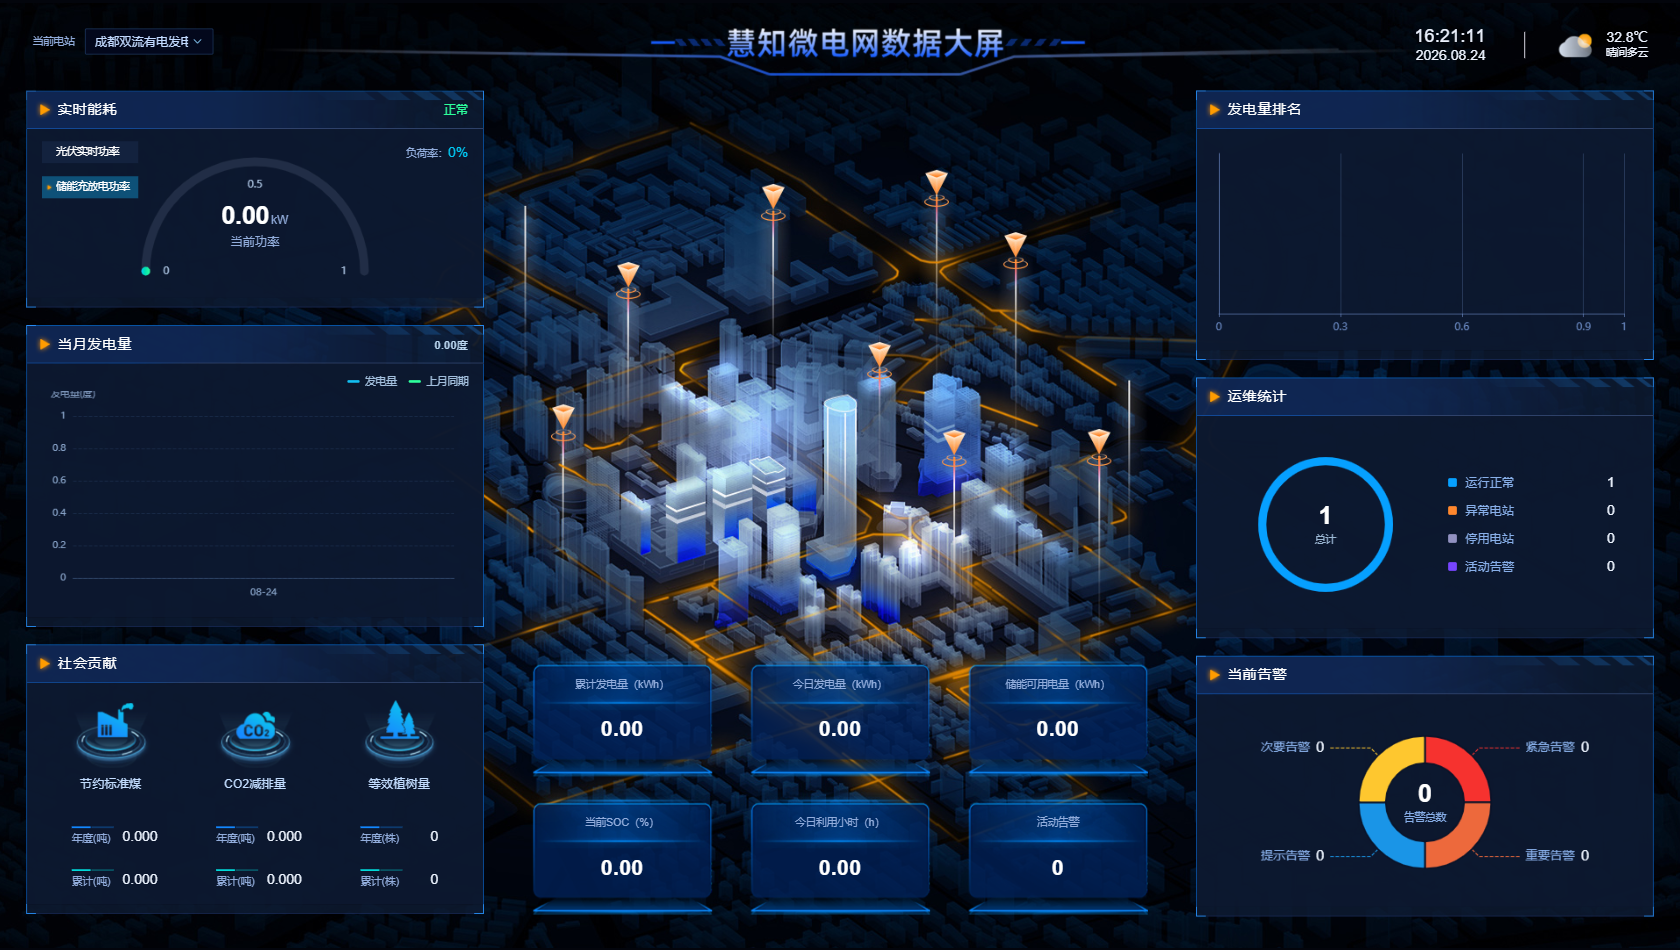
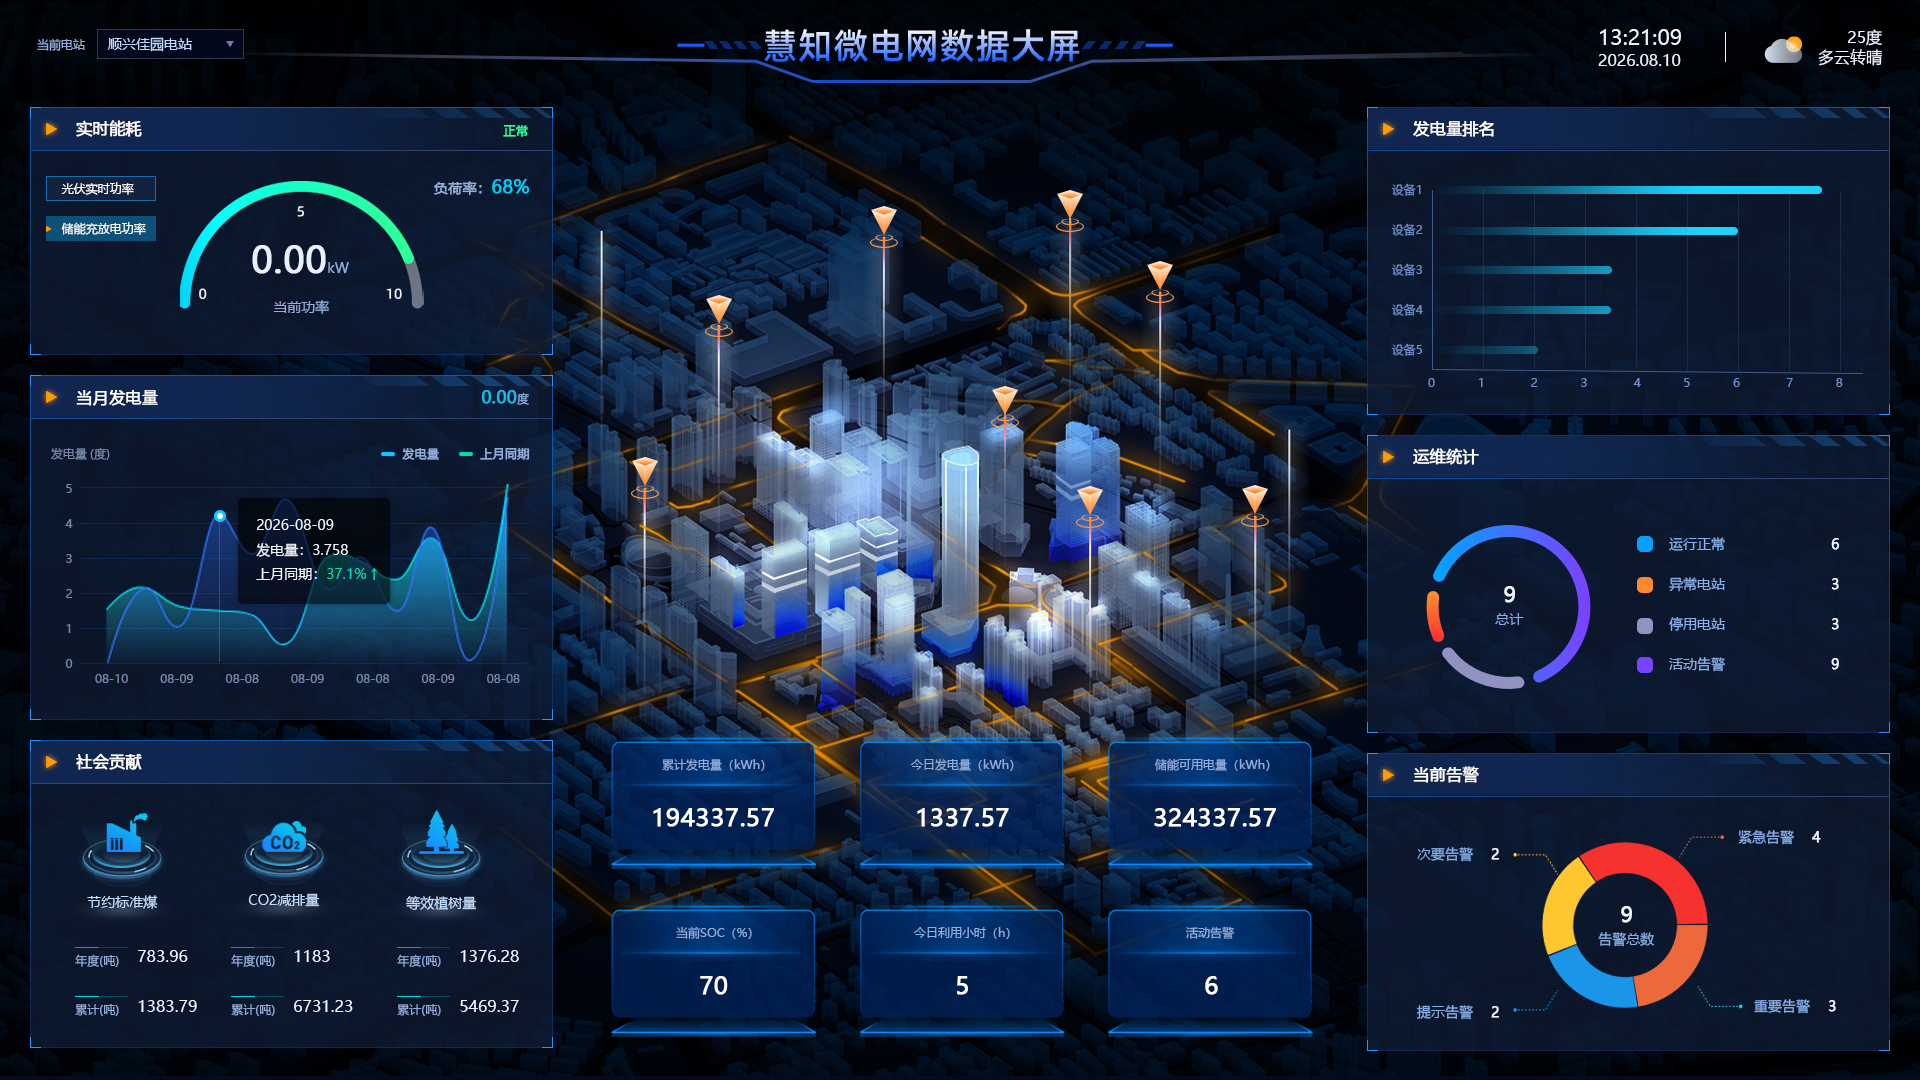
让微电网造福人类。

diff --git a/README.md b/README.md
@@ -21,7 +21,9 @@
     <img src="https://img.shields.io/badge/Spring%20Boot-2.7.18-brightgreen" alt="SpringBoot">
 </p>
 
-GOEMS 是一款基于 MIT 协议发布的多租户能源管理系统（EMS）云端微服务开源方案。代码全开源无加密，可免费商用，适合储能、光伏等能源资产运营方与集成商，快速构建「企业 - 电站 - 设备」三级资产模型的能源管理云平台。
+⚡GOEMS 开源能源管理系统全套源码⚡；⚡能源管理系统（EMS）⚡；⚡储能光伏运营平台⚡；⚡多租户 SaaS 能源云平台⚡；Spring Cloud Alibaba + MySQL + Redis + Nacos，多租户隔离、企业-电站-设备三级资产管理、设备智能接入、时序采集与远程管控、阈值告警与多渠道通知、多维经营报表与能量流分析、运营管理后台、数据大屏，一站式能源数字化运营解决方案。
+
+GOEMS 基于 MIT 协议发布，代码全开源无加密、可免费商用，适合储能、光伏等能源资产运营方与集成商，快速构建「企业 - 电站 - 设备」三级资产模型的能源管理云平台。
 
 ---
 
